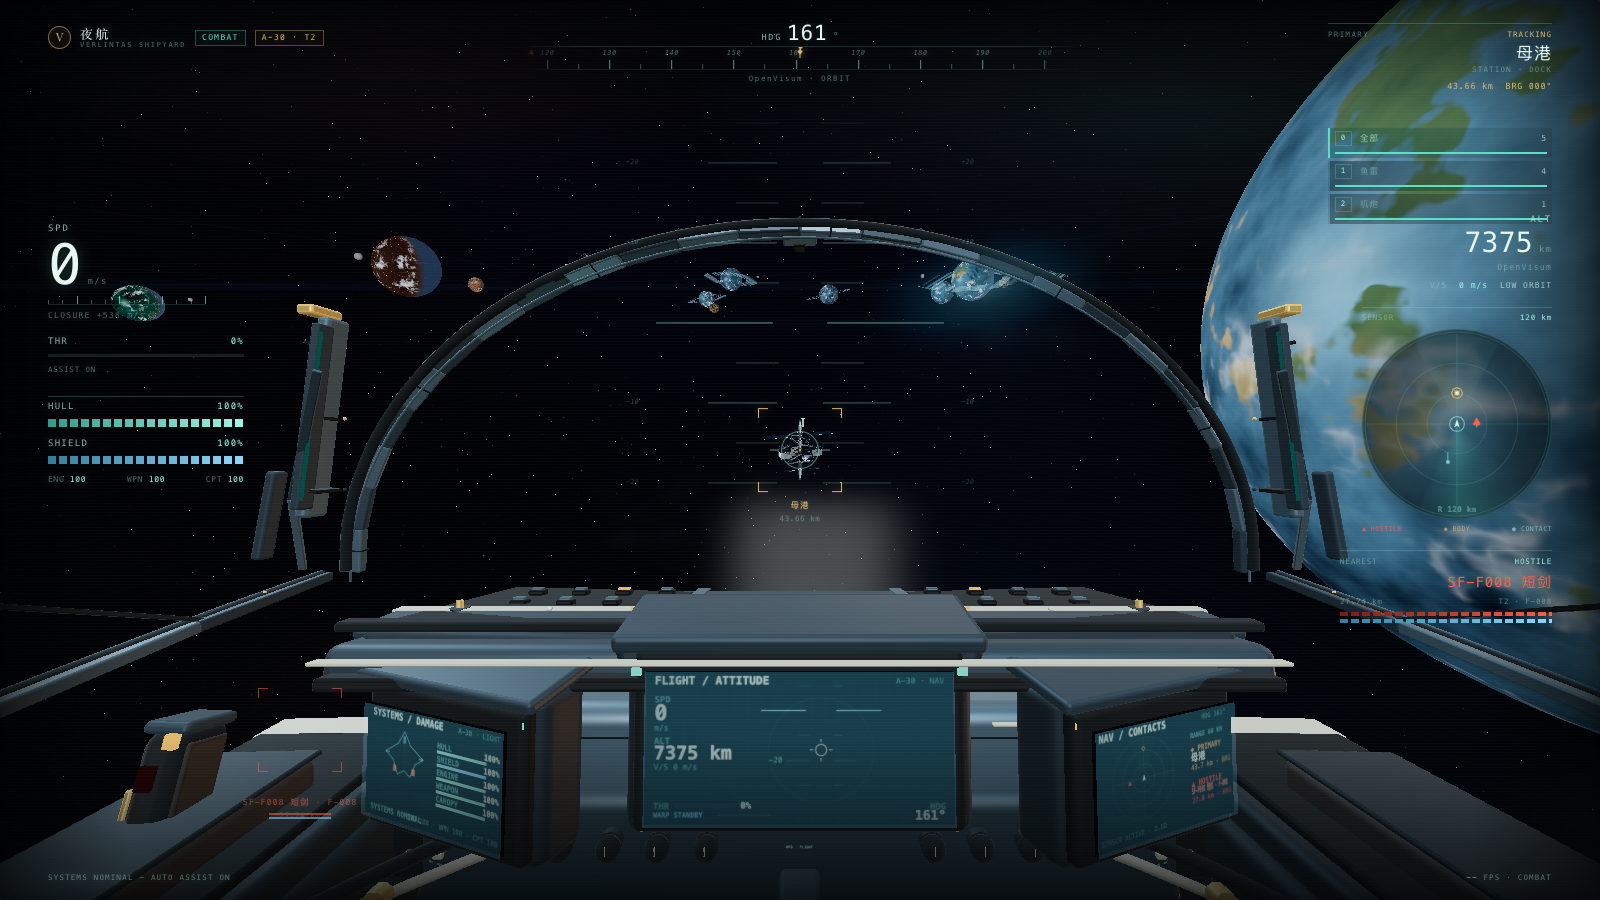
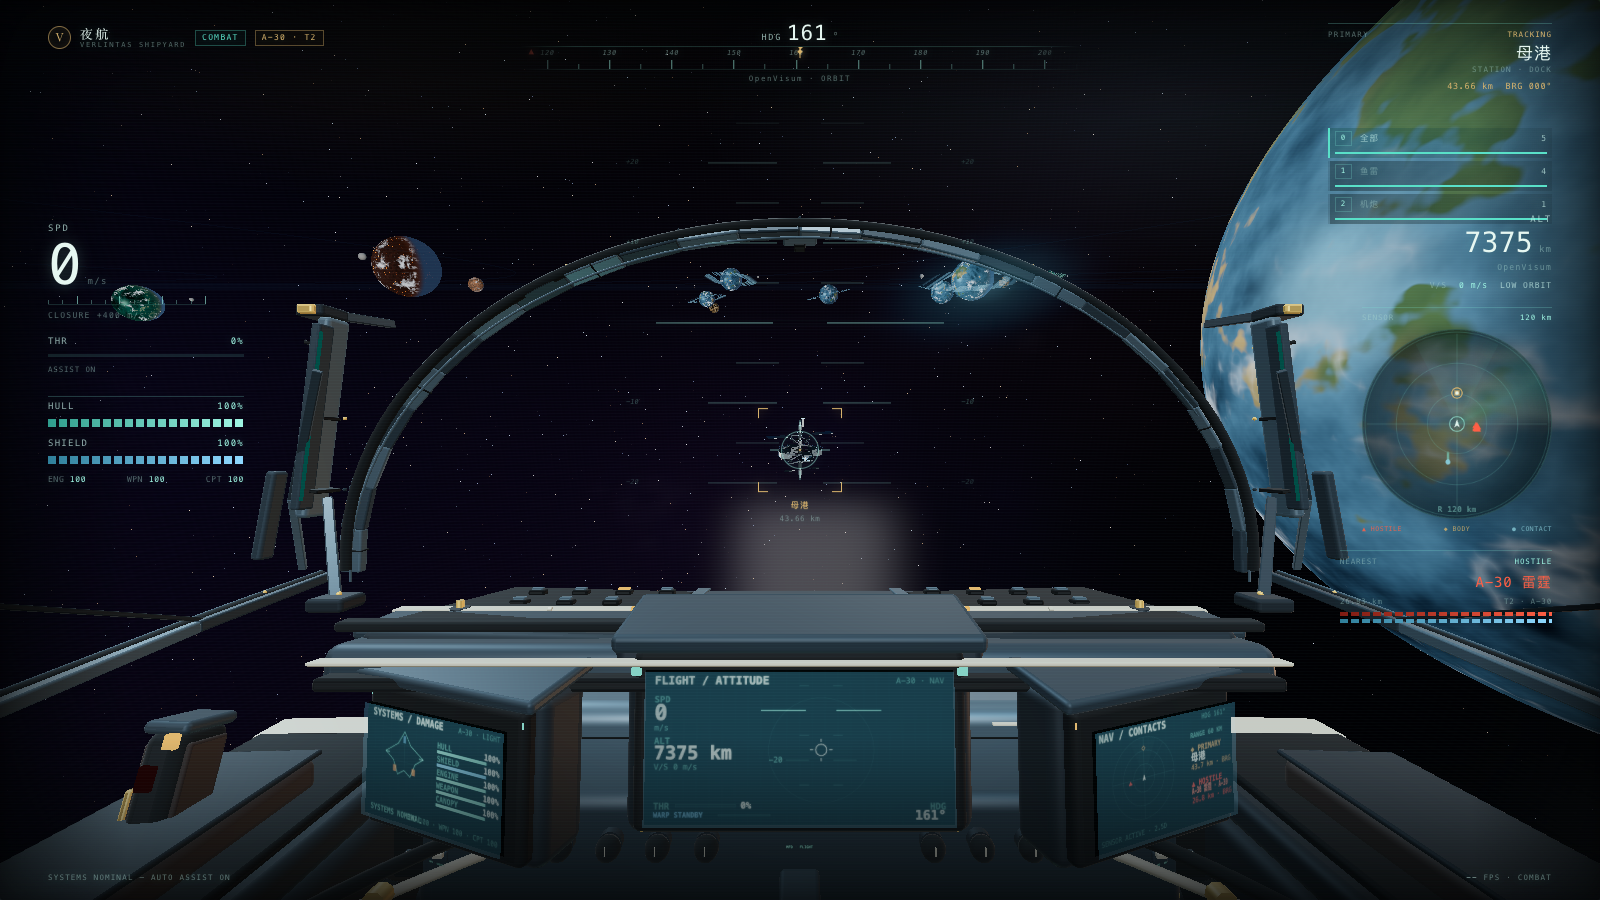
fix(cockpit): v3 blockers — remove AR10 overhead bar, localized cracks, canopy-mask target boxes
- remove AR10 bridge top toggle bar; no free-floating overhead geometry over glass
- rebuild canopy damage as two localized edge impact fractures with dark cores, thin bright lines, alpha 0.3–0.5
- mask world target boxes to canopy-glass polygon; hide brackets that project over dash/struts/throttle/MFDs
- add visible A-pillar/dash/bow and side-rail console brackets
- refresh 1600/1280/damage/hit/warp/third/AR10 screenshots; keep 31 draw calls

diff --git a/src/game/cockpit.ts b/src/game/cockpit.ts
@@ -254,28 +254,64 @@ function makeCrackTexture(seed: number): THREE.CanvasTexture {
     state = (state * 9301 + 49297) % 233280;
     return state / 233280;
   };
-  const branch = (x: number, y: number, angle: number, len: number, depth: number): void => {
-    if (depth <= 0 || len < 8) return;
+  const cx = 256;
+  const cy = 256;
+  // 撞击点：深色玻璃压碎区 + 细亮裂纹，不是长树枝
+  const pit = ctx.createRadialGradient(cx, cy, 0, cx, cy, 64);
+  pit.addColorStop(0, 'rgba(4,18,22,0.78)');
+  pit.addColorStop(0.34, 'rgba(8,28,34,0.42)');
+  pit.addColorStop(1, 'rgba(8,28,34,0)');
+  ctx.fillStyle = pit;
+  ctx.fillRect(cx - 70, cy - 70, 140, 140);
+  ctx.strokeStyle = 'rgba(198,240,250,0.42)';
+  ctx.lineWidth = 1.2;
+  for (let i = 0; i < 9; i += 1) {
+    const a = (i / 9) * Math.PI * 2 + rand() * 0.16;
+    ctx.beginPath();
+    ctx.arc(cx, cy, 10 + rand() * 7, a, a + 0.16 + rand() * 0.2);
+    ctx.stroke();
+  }
+  const branch = (x: number, y: number, angle: number, len: number, width: number, depth: number): void => {
+    if (depth <= 0 || len < 5) return;
     const ex = x + Math.cos(angle) * len;
     const ey = y + Math.sin(angle) * len;
-    ctx.strokeStyle = `rgba(214,248,255,${0.18 + depth * 0.06})`;
-    ctx.lineWidth = Math.max(0.8, depth * 0.8);
+    // dark inner shadow then thin bright fracture
+    ctx.strokeStyle = 'rgba(0,18,24,0.55)';
+    ctx.lineWidth = width + 2.2;
     ctx.beginPath();
     ctx.moveTo(x, y);
     ctx.lineTo(ex, ey);
     ctx.stroke();
-    ctx.strokeStyle = 'rgba(255,255,255,0.24)';
-    ctx.lineWidth = 0.5;
+    ctx.strokeStyle = `rgba(218,250,255,${0.52 + depth * 0.08})`;
+    ctx.lineWidth = width;
     ctx.beginPath();
     ctx.moveTo(x, y);
     ctx.lineTo(ex, ey);
     ctx.stroke();
-    branch(ex, ey, angle + (rand() - 0.5) * 0.8, len * (0.55 + rand() * 0.22), depth - 1);
-    if (rand() > 0.45) branch(ex, ey, angle + (rand() - 0.5) * 1.4, len * (0.4 + rand() * 0.25), depth - 1);
+    branch(ex, ey, angle + (rand() - 0.5) * 0.85, len * (0.4 + rand() * 0.2), Math.max(0.6, width * 0.72), depth - 1);
+    if (rand() > 0.55) {
+      branch(ex, ey, angle + (rand() - 0.5) * 1.7, len * (0.28 + rand() * 0.2), 0.7, depth - 1);
+    }
   };
-  branch(256, 260, -Math.PI / 2 + 0.3, 120, 5);
-  branch(256, 260, -Math.PI / 2 - 0.4, 96, 4);
-  branch(256, 260, Math.PI / 2 + 0.2, 80, 4);
+  const arms = 7;
+  for (let i = 0; i < arms; i += 1) {
+    const a = (i / arms) * Math.PI * 2 + (rand() - 0.5) * 0.28;
+    const len = 34 + rand() * 46;
+    branch(cx + Math.cos(a) * 9, cy + Math.sin(a) * 9, a, len, 1.35, 3);
+  }
+  // 少量玻璃碎屑/短裂纹
+  ctx.strokeStyle = 'rgba(210,248,255,0.34)';
+  ctx.lineWidth = 0.8;
+  for (let i = 0; i < 12; i += 1) {
+    const a = rand() * Math.PI * 2;
+    const r = 24 + rand() * 70;
+    const x = cx + Math.cos(a) * r;
+    const y = cy + Math.sin(a) * r;
+    ctx.beginPath();
+    ctx.moveTo(x, y);
+    ctx.lineTo(x + (rand() - 0.5) * 12, y + (rand() - 0.5) * 12);
+    ctx.stroke();
+  }
   const texture = new THREE.CanvasTexture(canvas);
   texture.colorSpace = THREE.SRGBColorSpace;
   return texture;
@@ -875,11 +911,11 @@ export class CockpitInterior {
       lamp.material.opacity = 0.5 + value * 0.5;
     }
     const cockpitDamage = 1 - t.parts.cockpit;
-    const visibleCracks = cockpitDamage > 0.42 ? Math.min(2, Math.floor((cockpitDamage - 0.42) * 5) + 1) : 0;
+    const visibleCracks = cockpitDamage > 0.62 ? 2 : cockpitDamage > 0.4 ? 1 : 0;
     variant.cracks.forEach((crack, index) => {
       const material = crack.material as THREE.MeshBasicMaterial;
       const on = index < visibleCracks;
-      material.opacity = on ? THREE.MathUtils.clamp((cockpitDamage - 0.35) * 0.8, 0, 0.42) : 0;
+      material.opacity = on ? THREE.MathUtils.clamp(0.3 + Math.max(0, cockpitDamage - 0.4) * 0.45, 0.3, 0.5) : 0;
       crack.visible = on;
     });
     // 座舱受损时，底部一条红色应急灯呼吸
@@ -1454,6 +1490,21 @@ export class CockpitInterior {
       }
       box(0.026, 0.016, 0.06, brass, side * 0.79, 0.228, -0.915, root, 0.004, 2);
       box(0.016, 0.14, 0.026, titaniumDark, side * 0.83, -0.1, -0.87, root, 0.005, 2, 0, 0, side * 0.18);
+      // 可见连接件：A 柱上端接 canopy bow，下端接 dash 翼面
+      barBetween(
+        new THREE.Vector3(side * 0.79, 0.228, -0.92),
+        new THREE.Vector3(side * 0.82, 0.255, -1.12),
+        0.016, 0.010, titaniumDark, root,
+      );
+      barBetween(
+        new THREE.Vector3(side * 0.79, -0.08, -0.93),
+        new THREE.Vector3(side * 0.63, -0.205, -0.755),
+        0.014, 0.009, titaniumDark, root,
+      );
+      box(0.045, 0.02, 0.055, dark, side * 0.79, 0.228, -0.92, root, 0.005, 2);
+      box(0.05, 0.018, 0.045, dark, side * 0.63, -0.205, -0.755, root, 0.005, 2);
+      sphere(0.0035, brass, side * 0.79, 0.238, -0.925, root, 8);
+      sphere(0.0035, brass, side * 0.63, -0.195, -0.76, root, 8);
     }
 
     /* ── canopy bow / 侧轨 / 玻璃 ─────────────────────── */
@@ -1525,6 +1576,20 @@ export class CockpitInterior {
       barBetween(braceB[1], braceB[2], 0.009, 0.006, dark, root);
       // 侧窗锁扣
       box(0.045, 0.022, 0.035, brass, side * 0.69, -0.29, 0.25, root, 0.006, 2);
+      // 侧轨与侧台/座椅的实体支架，避免像悬空管
+      barBetween(
+        new THREE.Vector3(side * 0.82, -0.285, -0.38),
+        new THREE.Vector3(side * 0.63, -0.405, -0.49),
+        0.013, 0.008, titaniumDark, root,
+      );
+      barBetween(
+        new THREE.Vector3(side * 0.60, -0.33, 0.30),
+        new THREE.Vector3(side * 0.55, -0.44, 0.18),
+        0.012, 0.008, titaniumDark, root,
+      );
+      box(0.04, 0.026, 0.06, dark, side * 0.60, -0.335, 0.29, root, 0.005, 2);
+      sphere(0.0032, brass, side * 0.63, -0.415, -0.49, root, 8);
+      sphere(0.0032, brass, side * 0.58, -0.40, -0.50, root, 8);
     }
 
     // 玻璃：低透明度 + 边缘 fresnel，不用 transmission
@@ -1631,7 +1696,16 @@ export class CockpitInterior {
         side: THREE.DoubleSide,
       });
       this.materials.add(crackMaterial);
-      const crack = addMesh(new THREE.PlaneGeometry(0.72, 0.6), crackMaterial, i === 0 ? 0.34 : -0.32, i === 0 ? 0.1 : 0.26, -1.0, root, 0, 0, i === 0 ? 0.22 : -0.35);
+      const crack = addMesh(
+        i === 0 ? new THREE.PlaneGeometry(0.34, 0.3) : new THREE.PlaneGeometry(0.27, 0.25),
+        crackMaterial,
+        i === 0 ? -0.60 : 0.58,
+        i === 0 ? -0.05 : 0.30,
+        i === 0 ? -1.01 : -1.02,
+        root,
+        0, 0,
+        i === 0 ? 0.30 : -0.28,
+      );
       crack.renderOrder = 18;
       crack.visible = false;
       crack.userData.dynamic = true;
@@ -1689,17 +1763,6 @@ export class CockpitInterior {
         );
         for (let i = 0; i < 4; i += 1) {
           box(0.055, 0.012, 0.18, dark, side * (0.72 + i * 0.08), -0.62, -0.54 + i * 0.02, root, 0.004, 2, 0, side * 0.16, 0);
-        }
-      }
-      // 舰桥额外顶部仪表：暗色基座 + 内嵌灯条，不做过亮的色块
-      box(0.8, 0.082, 0.13, titaniumDark, 0, 0.35, -0.89, root, 0.01, 2);
-      box(0.76, 0.06, 0.018, black, 0, 0.35, -0.823, root, 0.004, 2);
-      for (let i = 0; i < 6; i += 1) {
-        const x = -0.3 + i * 0.12;
-        box(0.062, 0.036, 0.012, dark, x, 0.35, -0.812, root, 0.003, 2);
-        box(0.046, 0.008, 0.008, i < 2 ? this.amberGlow : this.tealDim, x, 0.35, -0.805, root, 0.002, 1);
-        for (const sx of [-1, 1]) {
-          cyl(0.0035, 0.0035, 0.004, brass, x + sx * 0.028, 0.35, -0.805, root, Math.PI / 2, 0, 0, 6);
         }
       }
     }

diff --git a/src/game/main.ts b/src/game/main.ts
@@ -64,6 +64,24 @@ interface GameContext {
 
 const $ = <T extends HTMLElement>(id: string): T => document.getElementById(id) as T;
 
+/** 第一人称座舱玻璃的安全投影区：目标框只允许落在这块 canopy 玻璃内。 */
+const CANOPY_MASK_POLYGON: ReadonlyArray<readonly [number, number]> = [
+  [0.50, 0.20], [0.62, 0.21], [0.72, 0.25], [0.80, 0.34], [0.83, 0.44],
+  [0.80, 0.53], [0.68, 0.56], [0.32, 0.56], [0.20, 0.53], [0.17, 0.44],
+  [0.20, 0.34], [0.28, 0.25], [0.38, 0.21],
+];
+
+function insideCanopyMask(nx: number, ny: number): boolean {
+  let inside = false;
+  for (let i = 0, j = CANOPY_MASK_POLYGON.length - 1; i < CANOPY_MASK_POLYGON.length; j = i, i += 1) {
+    const [xi, yi] = CANOPY_MASK_POLYGON[i];
+    const [xj, yj] = CANOPY_MASK_POLYGON[j];
+    const intersect = yi > ny !== yj > ny && nx < ((xj - xi) * (ny - yi)) / (yj - yi) + xi;
+    if (intersect) inside = !inside;
+  }
+  return inside;
+}
+
 const BASE = import.meta.env.BASE_URL.replace(/\/+$/, '');
 const withBase = (path: string): string => `${BASE}/${path.replace(/^\/+/, '')}`;
 
@@ -2197,12 +2215,20 @@ function setupHud(
         }
         projected.copy(position).project(ctx.camera);
         const behind = projected.z >= 1;
-        const onScreen = !behind && Math.abs(projected.x) <= 1.02 && Math.abs(projected.y) <= 1.02;
+        const projectedX = (projected.x * 0.5 + 0.5) * viewportW;
+        const projectedY = (-projected.y * 0.5 + 0.5) * viewportH;
+        // 世界目标框只允许出现在 canopy 玻璃区域内；落在 dash/struts/console 后方则隐藏
+        const onCanopy = !behind && insideCanopyMask(projectedX / viewportW, projectedY / viewportH);
+        if (!onCanopy) {
+          el.classList.remove('is-on');
+          smooth.init = false;
+          return;
+        }
         // 左右保留给 HUD 栏 / radar，避免目标框、标签和红条被裁切
         const safeLeft = viewportW <= 1280 ? 260 : 300;
         const safeRight = viewportW - (viewportW * 0.03 + 212 + 54);
-        const rawX = THREE.MathUtils.clamp((projected.x * 0.5 + 0.5) * viewportW, safeLeft, safeRight);
-        const rawY = THREE.MathUtils.clamp((-projected.y * 0.5 + 0.5) * viewportH, 150, viewportH - 170);
+        const rawX = THREE.MathUtils.clamp(projectedX, safeLeft, safeRight);
+        const rawY = THREE.MathUtils.clamp(projectedY, viewportH * 0.26, viewportH * 0.53);
         if (!smooth.init) {
           smooth.x = rawX;
           smooth.y = rawY;
@@ -2214,7 +2240,7 @@ function setupHud(
         }
         el.style.setProperty('--x', `${smooth.x.toFixed(1)}px`);
         el.style.setProperty('--y', `${smooth.y.toFixed(1)}px`);
-        el.dataset.offscreen = String(!onScreen);
+        el.dataset.offscreen = 'false';
         el.dataset.kind = kind;
         el.dataset.side = smooth.x > viewportW * 0.58 ? 'right' : 'center';
         el.classList.add('is-on');

diff --git a/docs/cockpit-ui/README.md b/docs/cockpit-ui/README.md
@@ -13,15 +13,19 @@ Worktree：`/Users/apple/.local/share/opencode/worktree/e0f2de/cockpit-ui`
 - 3D MFD 显示真实二级信息（FLIGHT/SYSTEMS/NAV），8 Hz 更新；DOM HUD 为飞行主信息，不重复 speed/hull。
 - 保留第三人称/自由视角：cockpit pass 只在第一人称启用，第三人称 HUD 与舰体模型不受影响。
 
-## v2 polish
+## v2/v3 polish
 
 - 移除横跨视野的顶部 overhead slab：只保留贴 canopy header 的窄 breaker rail（默认在视野外），不再挡 HDG ribbon，也没有被近裁剪切掉的文字。
 - canopy 顶部横梁移除，只保留 bow 顶部的中央 latch；bow/侧轨改为分段 beveled 金属框（宽 20–30% 更窄），增加接缝、螺栓、gasket lip、细 trim 和明暗材质变化。
 - 顶部/大尺寸 cyan 灯带降为低强度 teal edge（`tealDim`），不再是最亮物体；dash glare shield 改为哑光深色。
+- AR10 不再绘制舰桥顶部 5-toggle 仪表条；避免任何 free-floating overhead bar 出现在玻璃上。
 - Dash 增加面板接缝、rocker banks、breaker rows、vent/screw、worn edge、stencil 标签；把黑色球状旋钮替换成 brass base + 橡胶 knurled cap + 指示线。
 - 油门/操纵杆重做：底座、brass collar、橡胶/皮革 grip、trigger、按钮、cable；去掉金色 ingot。
 - MFD 屏幕加大并前移，避免被 dash 前缘/遮光檐切掉顶部；FLIGHT 显示 attitude + SPD/ALT/V-S/THR/WARP/HDG，SYSTEMS 显示舰体示意 + 5 条损伤条，NAV 显示 2.5D radar + primary/hostile 列表。字号加大，1280×720 可读。
 - 目标框/标签/右侧卡片加入 safe margin：目标框中心 clamp 到左右 HUD 之间；右侧 HUD 固定留出 radar/card 区域；右侧目标标签改为向内对齐，避免裁切。
+- 世界目标框只允许出现在 canopy glass 投影多边形内；投影落在 dash/struts/throttle/MFD 上或玻璃外时直接隐藏，避免目标框压在仪表台上。
+- Canopy 损伤改为局部撞击裂纹：2 个边缘/角落 impact zone，细亮裂纹 + 暗色压碎核心，alpha 0.3–0.5，不跨中心 reticle 与 caution banner。
+- A 柱/侧轨增加可见的 dash mount、bow clamp 和侧台支架，左右两侧都做。
 - 第一人称仍然只显示 `#cockpit`，第三人称面板隐藏；第三人称截图回归通过。
 
 ## 数据接线
@@ -44,8 +48,8 @@ HUD 使用现有状态：
 
 | kit | triangles | parts | mesh draw calls |
 |---|---:|---:|---:|
-| light (A-30) | 98,174 | 618 | 31 |
-| capital (AR10) | 106,866 | 662 | 31 |
+| light (A-30) | 103,014 | 640 | 31 |
+| capital (AR10) | 108,370 | 658 | 31 |
 
 统计为场景内 mesh 数（含独立屏幕/玻璃/裂纹/灯），不是 renderer 实际 draw call；静态几何已按材质合并。三角形高于设计的 45–65k，优先保留细节；draw call 保持 31。
 
